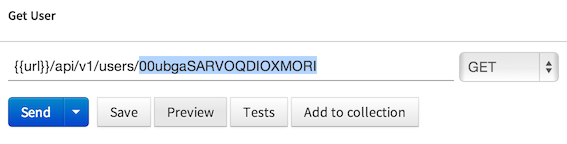
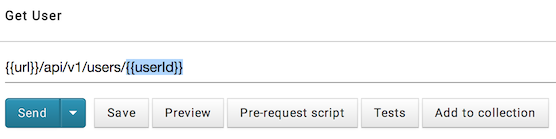
updated api test client doc and env template for new version of postman

diff --git a/assets/css/docs.css b/assets/css/docs.css
@@ -366,6 +366,7 @@ h6:hover .header-link {
 .docs-body img {
   max-width: 700px;
   display: block;
+  margin-bottom: 15px;
 }
 
 

diff --git a/docs/getting_started/api_test_client.md b/docs/getting_started/api_test_client.md
@@ -31,7 +31,7 @@ title: API Test Client
     You should [download and import the Environment Template JSON](templates/example.okta.com.postman_environment) and duplicate for each new environment (dev, test, preview, prod)
 
     1. [Download the template environment JSON](templates/example.okta.com.postman_environment) to your computer
-    2. Select the `No environment` dropdown at the top and select `Manage environments`
+    2. Select the `No environment` pull-down at the top and select `Manage environments`
 
         ![Manage Environments](/assets/img/postman-ui-manage-env.png "Manage Environments")
 
@@ -49,20 +49,27 @@ title: API Test Client
 
     5. Edit the environment, assign a new name, and specify the following values:
 
-        - `url`
-        - `apikey`
+        - `url`: full-qualified base URL for your Okta organization such as *https://acme.okta.com*
+        - `apikey`: the API key you generated as part of prerequisites
+        - `email-suffix`: used by request templates for email addresses and logins of new users
+        - `subdomain`: *orgname* in https://*orgname*.okta.com
 
-            > Enter the API key you generated as part of prerequisites
-
-        - `email-suffix`
-
-            > `email-suffix` is for generating email address and logins for new users
-
-        - `subdomain` (orgname in https://*orgname*.okta.com/
+        > We recommend you name the new environment the name of your okta organization such as example.okta.com in case you have both a preview and production organization
 
         ![Edit Environment](/assets/img/postman-ui-edit-env.png "Edit Environment")
 
-        > We recommend you name the new environment the name of your okta organization such as example.okta.com in case you have both a preview and production organization
+4. Select and verify your configured environment
+
+    1. Ensure you have selected your environment in the pull-down
+       
+        ![Select Environment](/assets/img/postman-ui-select-env.png "Select Environment")
+
+        > Your selected environment should have your name that you configured above and not say `No environment` or `example.okta.com` 
+
+    2. You can preview your configured environment variables by hovering over the `eye icon`
+       
+        ![Preview Environment](/assets/img/postman-ui-preview-env.png "Preview Environment")
+
 
 ### Collections
 
@@ -72,27 +79,43 @@ Once you have setup your Postman environment, you can import pre-built collectio
 
     ![Import Collection](/assets/img/postman-ui-import-collection.png "Import Collection")
 
-2. Add URL for Collection
+2. Download from link
 
-    ![Add URL for Collection](/assets/img/postman-ui-import-url.png "Add URL for Collection")
+    ![Download URL for Collection](/assets/img/postman-ui-import-url.png "Download URL for Collection")
 
     **Import the following templates:**
 
     API            | Postman Template
     -------------- | ---------------------------------------------------------
-    Users          | https://www.getpostman.com/collections/8bf0965119e3a46fd18b
+    Users          | https://www.getpostman.com/collections/bcd230dced07b89598b4
     Groups         | https://www.getpostman.com/collections/342602f07409f65559fd
     Sessions       | https://www.getpostman.com/collections/570290000c864ac8d454
-    Apps           | https://www.getpostman.com/collections/d4296020e4118bdbfa7a
+    Apps           | https://www.getpostman.com/collections/2bda23178f1c6a44f894
     Events         | https://www.getpostman.com/collections/57071989b25f5fc96070
     Authentication | https://www.getpostman.com/collections/005bc1ffcf4302fe4346
     Factors        | https://www.getpostman.com/collections/920850db85b2c8681f6b
 
 ### Sample Requests
 
-The imported collections contain URLs and JSON request bodies that have sample data.  You will need to replace URL and body parameters designiated in the API documentation for your specific organization. 
+The imported collections contain URLs and JSON request bodies that have sample data with params such as **\{\{id\}\}**.  You will need to replace URL and body parameters with ids of specific resources for your specific organization.  This can usually be accomplished by first listing a resource collection with a search or filter, than copying the `id` of a specific resource.  See API documentation for the specific request for details.
 
-   ![Add URL for Collection](/assets/img/postman-ui-replace-id.png "Add URL for Collection")
+The following request example requires a specific user `id`
+
+   ![URL template with ID](/assets/img/postman-ui-replace-id.png "URL template with ID")
+
+You can copy an `id` from a previous response such as a `GET` request to list resources and paste it.
+
+   ![Copy and replace ID](/assets/img/postman-ui-paste-id.png "Copy and replace ID in URL") 
+
+You can also set environment variables directly from the right-click context menu.  This is recommended so you can re-use the `id` across multiple requests
+
+   ![Set environment variable](/assets/img/postman-ui-set-variable-id.png "Set environment variable")
+
+Always check the request preview to ensure all **\{\{id\}\}** variables have been properly replaced before sending the request
+
+   ![Request preview](/assets/img/postman-ui-req-prevew.png "Request preview")
+
+ 
 
 
 
